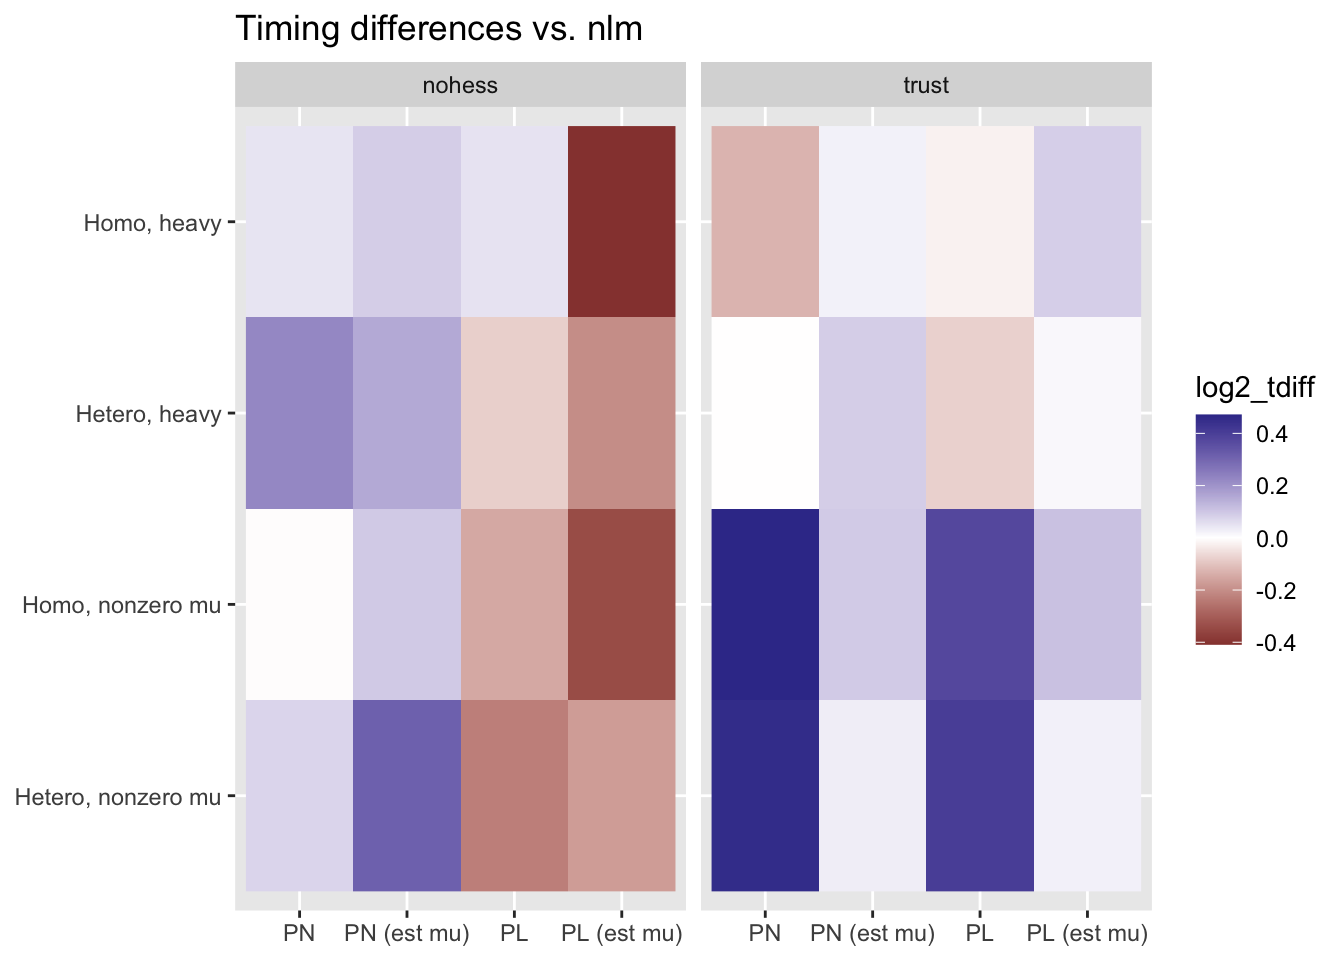
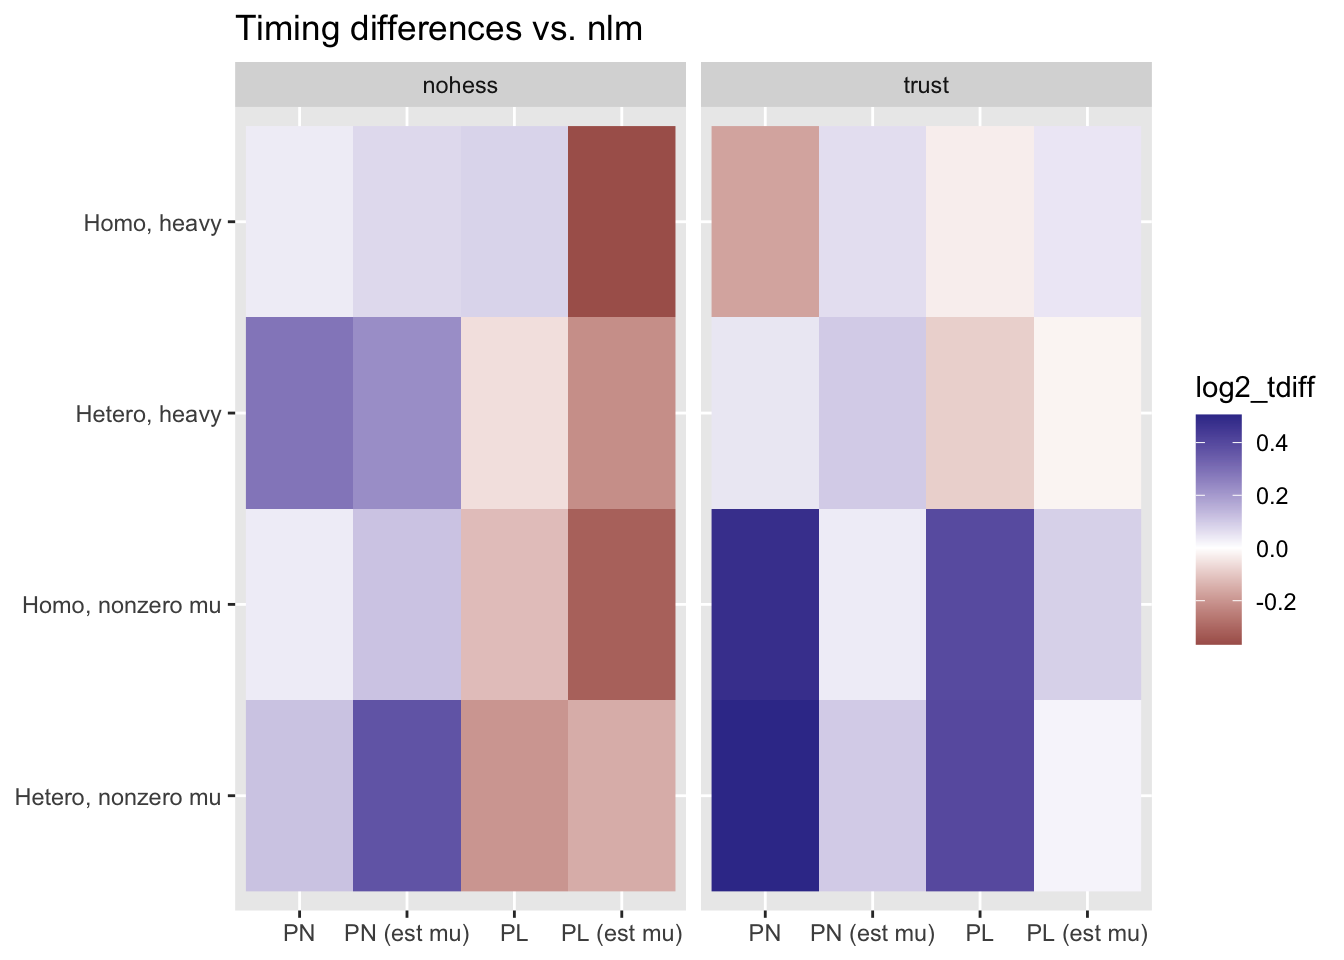
Build site.

diff --git a/docs/optmethods2.html b/docs/optmethods2.html
@@ -364,7 +364,7 @@ div.section {
 <div class="tab-content">
 <div id="summary" class="tab-pane fade in active">
 <p>
-<strong>Last updated:</strong> 2021-01-20
+<strong>Last updated:</strong> 2021-01-21
 </p>
 <p>
 <strong>Checks:</strong> <span class="glyphicon glyphicon-ok text-success" aria-hidden="true"></span> 6 <span class="glyphicon glyphicon-exclamation-sign text-danger" aria-hidden="true"></span> 0
@@ -443,10 +443,10 @@ This reproducible <a href="http://rmarkdown.rstudio.com">R Markdown</a> analysis
 <div class="panel panel-default">
 <div class="panel-heading">
 <p class="panel-title">
-<a data-toggle="collapse" data-parent="#workflowr-checks" href="#strongRepositoryversionstrongahrefhttpsgithubcomwillwerscheidebnmpapertree00b435609e4d18049b5556c1ded3daf93b1c5482targetblank00b4356a"> <span class="glyphicon glyphicon-ok text-success" aria-hidden="true"></span> <strong>Repository version:</strong> <a href="https://github.com/willwerscheid/ebnm-paper/tree/00b435609e4d18049b5556c1ded3daf93b1c5482" target="_blank">00b4356</a> </a>
+<a data-toggle="collapse" data-parent="#workflowr-checks" href="#strongRepositoryversionstrongahrefhttpsgithubcomwillwerscheidebnmpapertreedd2403ad92ccf764337223ece725b08db4eab053targetblankdd2403aa"> <span class="glyphicon glyphicon-ok text-success" aria-hidden="true"></span> <strong>Repository version:</strong> <a href="https://github.com/willwerscheid/ebnm-paper/tree/dd2403ad92ccf764337223ece725b08db4eab053" target="_blank">dd2403a</a> </a>
 </p>
 </div>
[2 lines of base64/hex data omitted]
 <div class="panel-body">
 <p>
 Great! You are using Git for version control. Tracking code development and connecting the code version to the results is critical for reproducibility. The version displayed above was the version of the Git repository at the time these results were generated. <br><br> Note that you need to be careful to ensure that all relevant files for the analysis have been committed to Git prior to generating the results (you can use <code>wflow_publish</code> or <code>wflow_git_commit</code>). workflowr only checks the R Markdown file, but you know if there are other scripts or data files that it depends on. Below is the status of the Git repository when the results were generated:
@@ -499,6 +499,40 @@ Message
 </tr>
 </thead>
 <tbody>
+<tr>
+<td>
+Rmd
+</td>
+<td>
+<a href="https://github.com/willwerscheid/ebnm-paper/blob/dd2403ad92ccf764337223ece725b08db4eab053/analysis/optmethods2.Rmd" target="_blank">dd2403a</a>
+</td>
+<td>
+Jason Willwerscheid
+</td>
+<td>
+2021-01-21
+</td>
+<td>
+wflow_publish(“analysis/optmethods2.Rmd”)
+</td>
+</tr>
+<tr>
+<td>
+html
+</td>
+<td>
+<a href="https://rawcdn.githack.com/willwerscheid/ebnm-paper/20ce7cc1ec11ad2bcfc08b39ca5ae4b990582ffe/docs/optmethods2.html" target="_blank">20ce7cc</a>
+</td>
+<td>
+Jason Willwerscheid
+</td>
+<td>
+2021-01-20
+</td>
+<td>
+Build site.
+</td>
+</tr>
 <tr>
 <td>
 Rmd
@@ -684,7 +718,7 @@ plot_one_n &lt;- function(res) {
                              ifelse(heavy_tail, &quot;heavy&quot;, &quot;nonzero mu&quot;)))) %&gt;%
     mutate(x = fct_relevel(x, &quot;PN&quot;, &quot;PN (est mu)&quot;, &quot;PL&quot;, &quot;PL (est mu)&quot;),
            y = fct_relevel(y, &quot;Hetero, nonzero mu&quot;, &quot;Homo, nonzero mu&quot;, 
-                           &quot;Hetero, heavy&quot;, &quot;Homo, non-heavy&quot;))
+                           &quot;Hetero, heavy&quot;, &quot;Homo, heavy&quot;))
   
   plt &lt;- ggplot(df, aes(x = x, y = y)) + 
     geom_raster(aes(fill = log2_tdiff)) +
@@ -699,10 +733,6 @@ plot_one_n &lt;- function(res) {
 <h2><span class="math inline">\(n = 1000\)</span></h2>
 <pre class="r"><code>res1000 &lt;- one_n(1000, mb_times = 20L, seeds = 1:20)
 plot_one_n(res1000)</code></pre>
-<pre><code>#&gt; Warning: Problem with `mutate()` input `y`.
-#&gt; ℹ Unknown levels in `f`: Homo, non-heavy
-#&gt; ℹ Input `y` is `fct_relevel(...)`.</code></pre>
-<pre><code>#&gt; Warning: Unknown levels in `f`: Homo, non-heavy</code></pre>
 <p><img src="figure/optmethods2.Rmd/n1000-1.png" width="672" style="display: block; margin: auto;" /></p>
 <p>
 <button type="button" class="btn btn-default btn-xs btn-workflowr btn-workflowr-fig" data-toggle="collapse" data-target="#fig-n1000-1">
@@ -728,6 +758,17 @@ Date
 <tbody>
 <tr>
 <td>
+<a href="https://github.com/willwerscheid/ebnm-paper/blob/20ce7cc1ec11ad2bcfc08b39ca5ae4b990582ffe/docs/figure/optmethods2.Rmd/n1000-1.png" target="_blank">20ce7cc</a>
+</td>
+<td>
+Jason Willwerscheid
+</td>
+<td>
+2021-01-20
+</td>
+</tr>
+<tr>
+<td>
 <a href="https://github.com/willwerscheid/ebnm-paper/blob/80b717d9fe1138263f541f7de73f0e3846f59f00/docs/figure/optmethods2.Rmd/n1000-1.png" target="_blank">80b717d</a>
 </td>
 <td>
@@ -746,10 +787,6 @@ Jason Willwerscheid
 <h2><span class="math inline">\(n = 10000\)</span></h2>
 <pre class="r"><code>res10000 &lt;- one_n(10000, mb_times = 10L, seeds = 1:20)
 plot_one_n(res10000)</code></pre>
-<pre><code>#&gt; Warning: Problem with `mutate()` input `y`.
-#&gt; ℹ Unknown levels in `f`: Homo, non-heavy
-#&gt; ℹ Input `y` is `fct_relevel(...)`.</code></pre>
-<pre><code>#&gt; Warning: Unknown levels in `f`: Homo, non-heavy</code></pre>
 <p><img src="figure/optmethods2.Rmd/n10000-1.png" width="672" style="display: block; margin: auto;" /></p>
 <p>
 <button type="button" class="btn btn-default btn-xs btn-workflowr btn-workflowr-fig" data-toggle="collapse" data-target="#fig-n10000-1">
@@ -775,6 +812,17 @@ Date
 <tbody>
 <tr>
 <td>
+<a href="https://github.com/willwerscheid/ebnm-paper/blob/20ce7cc1ec11ad2bcfc08b39ca5ae4b990582ffe/docs/figure/optmethods2.Rmd/n10000-1.png" target="_blank">20ce7cc</a>
+</td>
+<td>
+Jason Willwerscheid
+</td>
+<td>
+2021-01-20
+</td>
+</tr>
+<tr>
+<td>
 <a href="https://github.com/willwerscheid/ebnm-paper/blob/80b717d9fe1138263f541f7de73f0e3846f59f00/docs/figure/optmethods2.Rmd/n10000-1.png" target="_blank">80b717d</a>
 </td>
 <td>
@@ -793,10 +841,6 @@ Jason Willwerscheid
 <h2><span class="math inline">\(n = 100000\)</span></h2>
 <pre class="r"><code>res100000 &lt;- one_n(100000, mb_times = 5L, seeds = 1:20)
 plot_one_n(res100000)</code></pre>
-<pre><code>#&gt; Warning: Problem with `mutate()` input `y`.
-#&gt; ℹ Unknown levels in `f`: Homo, non-heavy
-#&gt; ℹ Input `y` is `fct_relevel(...)`.</code></pre>
-<pre><code>#&gt; Warning: Unknown levels in `f`: Homo, non-heavy</code></pre>
 <p><img src="figure/optmethods2.Rmd/n100000-1.png" width="672" style="display: block; margin: auto;" /></p>
 <p>
 <button type="button" class="btn btn-default btn-xs btn-workflowr btn-workflowr-fig" data-toggle="collapse" data-target="#fig-n100000-1">
@@ -820,6 +864,17 @@ Date
 </tr>
 </thead>
 <tbody>
+<tr>
+<td>
+<a href="https://github.com/willwerscheid/ebnm-paper/blob/20ce7cc1ec11ad2bcfc08b39ca5ae4b990582ffe/docs/figure/optmethods2.Rmd/n100000-1.png" target="_blank">20ce7cc</a>
+</td>
+<td>
+Jason Willwerscheid
+</td>
+<td>
+2021-01-20
+</td>
+</tr>
 <tr>
 <td>
 <a href="https://github.com/willwerscheid/ebnm-paper/blob/80b717d9fe1138263f541f7de73f0e3846f59f00/docs/figure/optmethods2.Rmd/n100000-1.png" target="_blank">80b717d</a>
